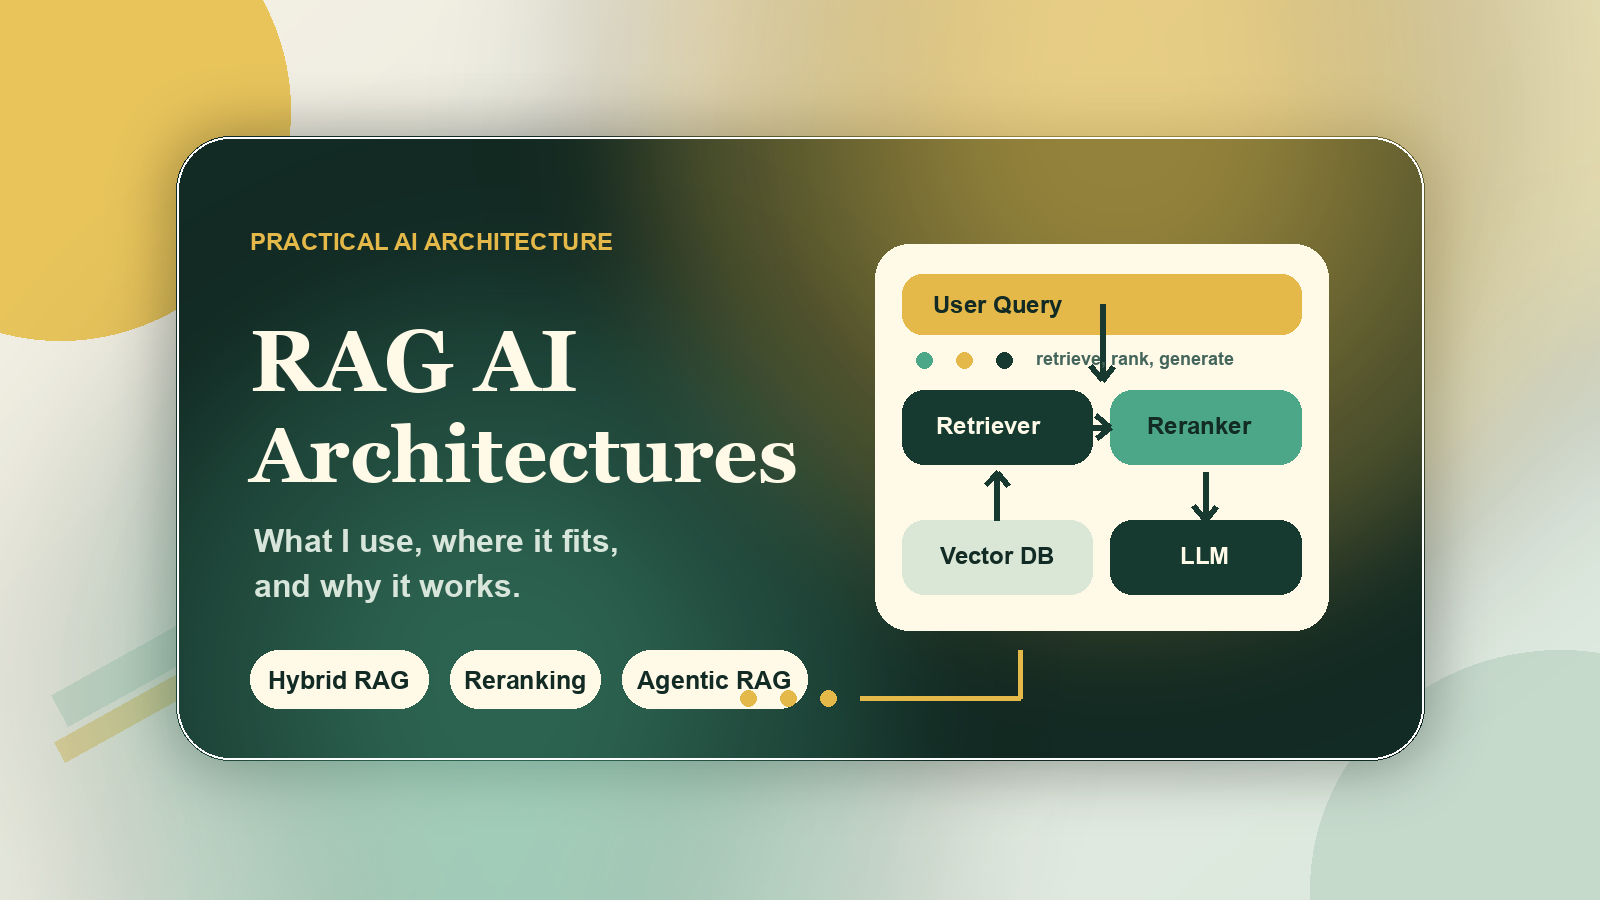
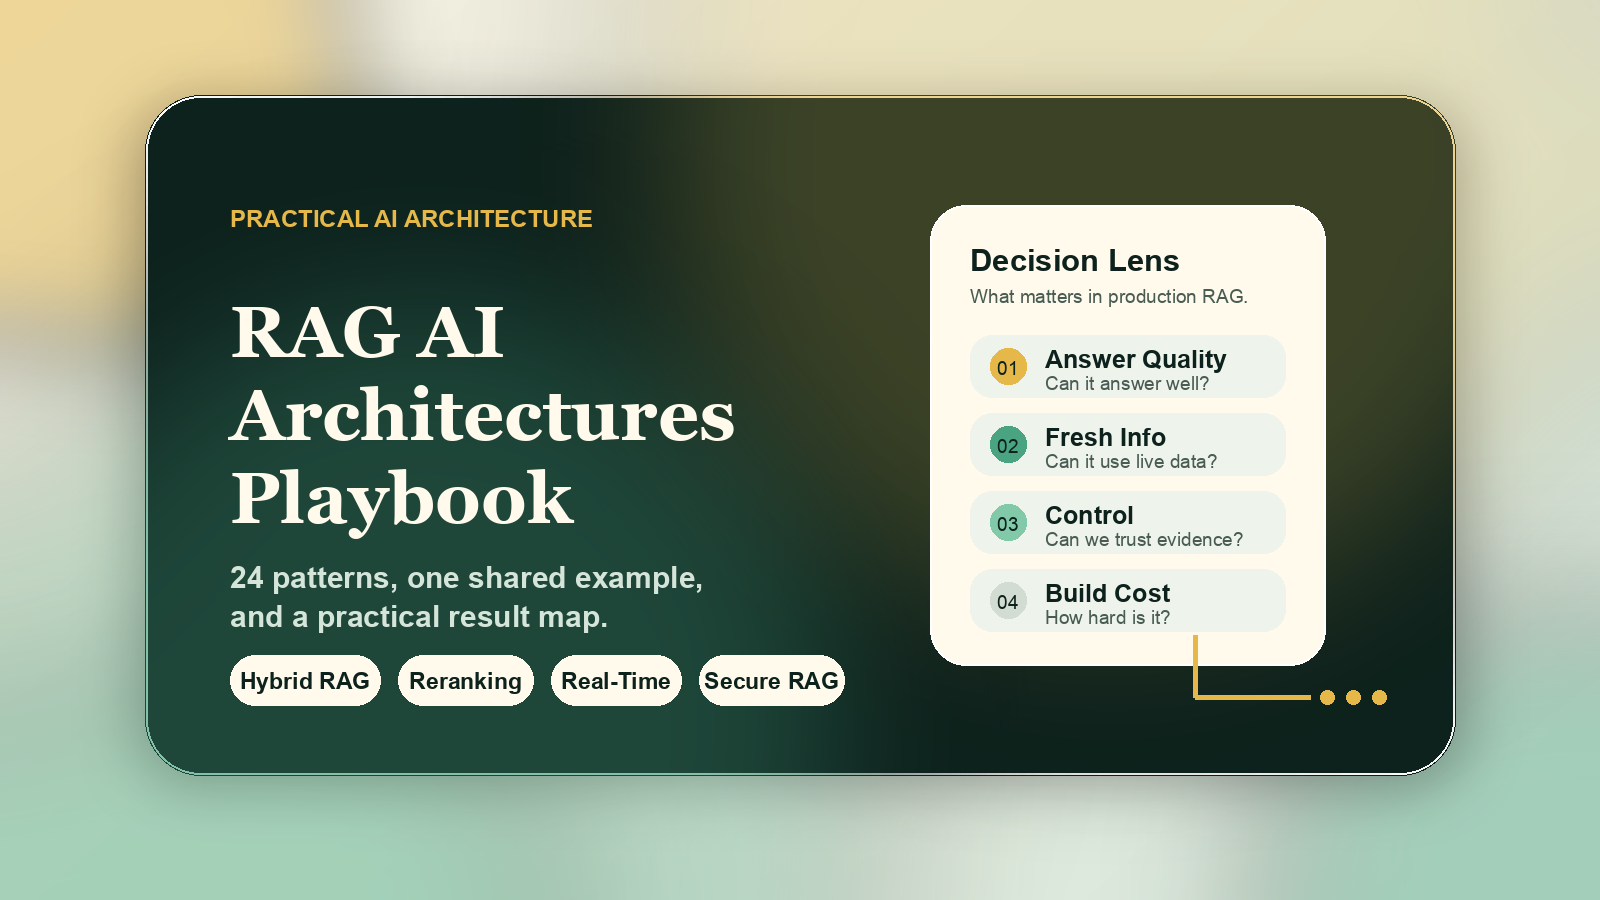
Fix RAG playbook cover and project overflow

diff --git a/src/content/project/rag-ai-architectures-playbook.md b/src/content/project/rag-ai-architectures-playbook.md
@@ -4,8 +4,8 @@ publishDate: "2026-06-02"
 description: "A practical RAG architectures playbook with 24 patterns, one shared example, pseudo-code, result comparison, and my preferred production starting point."
 tags: ["ai", "python", "rag", "llm"]
 coverImage:
-  alt: "RAG architectures result map showing recommended stack and expected fit scores"
-  src: "./img/rag-ai-architectures/rag-result-map-linkedin.png"
+  alt: "RAG Architectures Playbook cover with decision lens"
+  src: "./img/rag-ai-architectures/rag-ai-architectures-cover.png"
 ---
 
 ## Role
